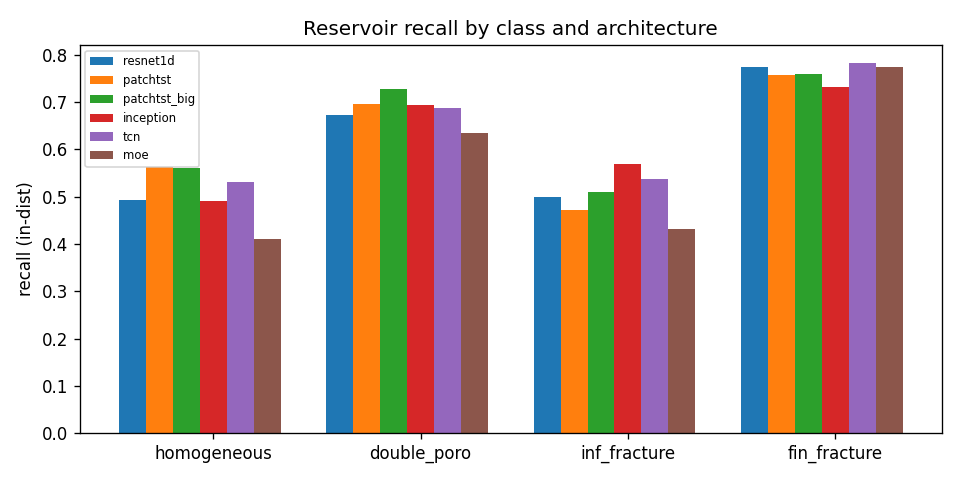
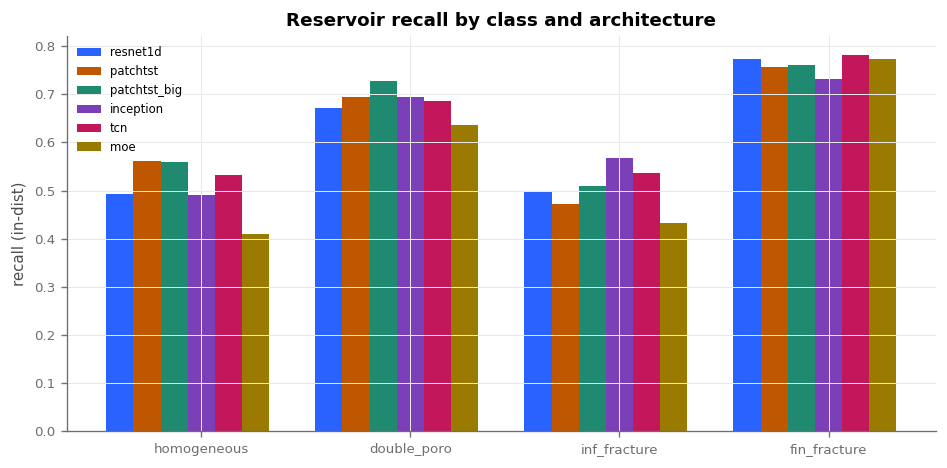
site: dark mode and data-color system for the style guide
Auto dark mode (prefers-color-scheme + masthead toggle persisted in
localStorage) with brightened accents for contrast; 8-color categorical
cycle for multi-series charts; highlight+context pattern for many-column
histograms (never one color per category); matching matplotlib style file
so report figures come out on-brand in one line.

diff --git a/docs/guia_estilos.html b/docs/guia_estilos.html
@@ -13,7 +13,9 @@
 
 <div class="masthead full">
   <span><a href="index.html">Deep PTA</a></span>
-  <span>Guía de estilos editoriales</span>
+  <span>Guía de estilos editoriales
+    <button class="theme-toggle" id="theme-toggle" title="Cambiar tema">AUTO</button>
+  </span>
 </div>
 
 <h1 class="title">Guía de estilos para los informes de resultados</h1>
@@ -61,6 +63,99 @@ naranja, nada lo es.</p>
     <div class="role">Métrica héroe, mejor valor, hallazgos. Con moderación.</div>
   </div>
 </div>
+
+<h2>Modo oscuro</h2>
+<p>El tema sigue la preferencia del sistema (<code>prefers-color-scheme</code>) y se
+puede forzar con el botón del masthead (persiste en <code>localStorage</code>). En
+oscuro, los acentos suben de luminancia (azul <code>#7DA2FF</code>, naranja
+<code>#FF9248</code>) para mantener el contraste sobre papel <code>#14161A</code>, y
+las figuras raster de matplotlib (fondo blanco) se atenúan con un filtro suave. Todos
+los componentes usan variables por rol, así que ningún informe necesita CSS propio
+para soportar ambos modos.</p>
+
+<h2>Color de datos (gráficas)</h2>
+<p>Los dos acentos editoriales no bastan para una gráfica con varias curvas. Para eso
+existe el <strong>ciclo categórico de 8</strong> — empieza por los acentos y sigue con
+tonos separados en matiz, legibles en ambos modos:</p>
+
+<div class="swatches">
+  <div class="swatch"><div class="chip" style="background:var(--data-1)"></div>
+    <div class="name">data-1</div><div class="role">azul (acento)</div></div>
+  <div class="swatch"><div class="chip" style="background:var(--data-2)"></div>
+    <div class="name">data-2</div><div class="role">naranja (héroe)</div></div>
+  <div class="swatch"><div class="chip" style="background:var(--data-3)"></div>
+    <div class="name">data-3</div><div class="role">verde azulado</div></div>
+  <div class="swatch"><div class="chip" style="background:var(--data-4)"></div>
+    <div class="name">data-4</div><div class="role">violeta</div></div>
+  <div class="swatch"><div class="chip" style="background:var(--data-5)"></div>
+    <div class="name">data-5</div><div class="role">magenta</div></div>
+  <div class="swatch"><div class="chip" style="background:var(--data-6)"></div>
+    <div class="name">data-6</div><div class="role">ocre</div></div>
+  <div class="swatch"><div class="chip" style="background:var(--data-7)"></div>
+    <div class="name">data-7</div><div class="role">cian profundo</div></div>
+  <div class="swatch"><div class="chip" style="background:var(--data-8)"></div>
+    <div class="name">data-8</div><div class="role">gris ("resto")</div></div>
+</div>
+
+<h3>Muchas series: el ciclo en orden</h3>
+<p>Hasta 8 series (las 6 arquitecturas del banco caben), siempre en el mismo orden —
+así "azul = primera serie" se vuelve convención entre figuras.</p>
+
+<div class="flow">
+<svg viewBox="0 0 640 150" width="100%" role="img" aria-label="Demo de líneas multi-serie">
+  <polyline points="20,110 120,95 220,80 320,60 420,52 620,40" fill="none" stroke="var(--data-1)" stroke-width="2.5"/>
+  <polyline points="20,120 120,108 220,99 320,84 420,72 620,62" fill="none" stroke="var(--data-2)" stroke-width="2.5"/>
+  <polyline points="20,125 120,115 220,108 320,95 420,88 620,78" fill="none" stroke="var(--data-3)" stroke-width="2.5"/>
+  <polyline points="20,128 120,122 220,114 320,108 420,99 620,92" fill="none" stroke="var(--data-4)" stroke-width="2.5"/>
+  <polyline points="20,132 120,127 220,123 320,116 420,111 620,104" fill="none" stroke="var(--data-5)" stroke-width="2.5"/>
+  <polyline points="20,136 120,132 220,129 320,125 420,121 620,116" fill="none" stroke="var(--data-6)" stroke-width="2.5"/>
+  <line x1="20" y1="142" x2="620" y2="142" stroke="var(--rule)" stroke-width="1"/>
+</svg>
+</div>
+
+<h3>Muchas columnas: highlight + context</h3>
+<p><strong>Más de 8 categorías nunca reciben un color por categoría.</strong> Un
+histograma con muchas columnas usa el patrón <em>highlight&nbsp;+&nbsp;context</em>:
+todo en gris apagado y SOLO la barra (o las 2-3 barras) de las que habla el texto en
+color. Si las categorías tienen orden natural, alternativa: escala secuencial
+mono-matiz azul.</p>
+
+<div class="flow">
+<svg viewBox="0 0 640 150" width="100%" role="img" aria-label="Histograma highlight + context">
+  <g>
+    <rect x="22"  y="96" width="26" height="46" fill="var(--data-muted)"/>
+    <rect x="56"  y="78" width="26" height="64" fill="var(--data-muted)"/>
+    <rect x="90"  y="60" width="26" height="82" fill="var(--data-muted)"/>
+    <rect x="124" y="46" width="26" height="96" fill="var(--data-muted)"/>
+    <rect x="158" y="30" width="26" height="112" fill="var(--data-2)"/>
+    <rect x="192" y="42" width="26" height="100" fill="var(--data-muted)"/>
+    <rect x="226" y="56" width="26" height="86" fill="var(--data-muted)"/>
+    <rect x="260" y="64" width="26" height="78" fill="var(--data-muted)"/>
+    <rect x="294" y="74" width="26" height="68" fill="var(--data-muted)"/>
+    <rect x="328" y="82" width="26" height="60" fill="var(--data-muted)"/>
+    <rect x="362" y="88" width="26" height="54" fill="var(--data-muted)"/>
+    <rect x="396" y="95" width="26" height="47" fill="var(--data-muted)"/>
+    <rect x="430" y="102" width="26" height="40" fill="var(--data-muted)"/>
+    <rect x="464" y="108" width="26" height="34" fill="var(--data-muted)"/>
+    <rect x="498" y="113" width="26" height="29" fill="var(--data-muted)"/>
+    <rect x="532" y="118" width="26" height="24" fill="var(--data-muted)"/>
+    <rect x="566" y="124" width="26" height="18" fill="var(--data-muted)"/>
+    <line x1="20" y1="142" x2="620" y2="142" stroke="var(--rule)" stroke-width="1"/>
+    <text x="171" y="22" text-anchor="middle" fill="var(--data-2)"
+          font-family="Source Sans 3, sans-serif" font-size="11" font-weight="700">el dato</text>
+  </g>
+</svg>
+</div>
+<figcaption style="max-width:44rem;margin:-1.4rem auto 2rem;padding:0 1.25rem;">
+<b>Patrón highlight + context.</b> Diecisiete columnas, un mensaje: el contexto en
+gris apagado (<code>--data-muted</code>), el dato en naranja. El lector ve la historia
+sin descifrar una leyenda de 17 colores.</figcaption>
+
+<h3>Figuras matplotlib on-brand</h3>
+<p>Las figuras de los scripts usan <code>docs/assets/deep_pta.mplstyle</code>, que fija
+el mismo ciclo de 8 colores, la sans y la rejilla fina:</p>
+<pre><code>import matplotlib.pyplot as plt
+plt.style.use("docs/assets/deep_pta.mplstyle")</code></pre>
 
 <h2>Tipografía</h2>
 <p>La prosa va en <strong>Source Serif 4</strong> (fallback Georgia) a 17px con
@@ -191,12 +286,39 @@ convención que la bitácora.</p>
 
 </article>
 
+<script>
+  // Toggle de tema: AUTO -> DARK -> LIGHT -> AUTO (persistido en localStorage)
+  (function () {
+    const root = document.documentElement;
+    const btn = document.getElementById("theme-toggle");
+    const saved = localStorage.getItem("deep-pta-theme");
+    if (saved) { root.dataset.theme = saved; btn.textContent = saved.toUpperCase(); }
+    btn.addEventListener("click", () => {
+      const next = { "": "dark", "dark": "light", "light": "" }[root.dataset.theme || ""];
+      if (next) { root.dataset.theme = next; localStorage.setItem("deep-pta-theme", next); }
+      else { delete root.dataset.theme; localStorage.removeItem("deep-pta-theme"); }
+      btn.textContent = (next || "auto").toUpperCase();
+      location.reload(); // re-render mermaid con el tema correcto
+    });
+  })();
+</script>
 <script type="module">
   import mermaid from "https://cdn.jsdelivr.net/npm/mermaid@11/dist/mermaid.esm.min.mjs";
+  const forced = document.documentElement.dataset.theme;
+  const dark = forced === "dark" ||
+    (!forced && window.matchMedia("(prefers-color-scheme: dark)").matches);
   mermaid.initialize({
     startOnLoad: true,
     theme: "base",
-    themeVariables: {
+    themeVariables: dark ? {
+      fontFamily: "Source Sans 3, Helvetica, Arial, sans-serif",
+      fontSize: "14px",
+      primaryColor: "#1d2026",
+      primaryTextColor: "#e8e6e3",
+      primaryBorderColor: "#8d8a85",
+      lineColor: "#8d8a85",
+      tertiaryColor: "#14161a"
+    } : {
       fontFamily: "Source Sans 3, Helvetica, Arial, sans-serif",
       fontSize: "14px",
       primaryColor: "#ffffff",

diff --git a/docs/assets/style.css b/docs/assets/style.css
@@ -21,6 +21,18 @@
   --hero:        #bf5700; /* métrica héroe, mejor valor, hallazgos — escaso */
   --hero-tint:   #fbf2ea; /* fondo del bloque de hallazgo, fila ganadora */
 
+  /* Ciclo categórico para series de datos (gráficas con varias curvas).
+     Orden fijo: las dos primeras son los acentos editoriales; ≤8 series. */
+  --data-1: #2962ff;  /* azul (acento) */
+  --data-2: #bf5700;  /* naranja (héroe) */
+  --data-3: #1f8a70;  /* verde azulado */
+  --data-4: #7b3fb8;  /* violeta */
+  --data-5: #c2185b;  /* magenta */
+  --data-6: #9a7b00;  /* ocre */
+  --data-7: #00838f;  /* cian profundo */
+  --data-8: #6e6e6e;  /* gris: la categoría "resto/otros" */
+  --data-muted: #c9ced6; /* contexto apagado para highlight+context */
+
   /* Tipografía */
   --serif: "Source Serif 4", Georgia, "Times New Roman", serif;
   --sans:  "Source Sans 3", -apple-system, "Segoe UI", Helvetica, Arial, sans-serif;
@@ -28,7 +40,85 @@
 
   --measure: 44rem;       /* ancho de lectura ~704px */
   --measure-wide: 64rem;  /* figuras y tablas anchas */
+
+  color-scheme: light dark;
 }
+
+/* ---------- modo oscuro ----------
+   Automático por preferencia del sistema; forzable con
+   <html data-theme="dark"> o data-theme="light" (toggle del masthead). */
+@media (prefers-color-scheme: dark) {
+  :root:not([data-theme="light"]) {
+    --ink:        #e8e6e3;
+    --ink-soft:   #b8b5b0;
+    --ink-faint:  #8d8a85;
+    --paper:      #14161a;
+    --paper-alt:  #1d2026;
+    --rule:       #2c3039;
+
+    --accent:      #7da2ff;
+    --accent-dark: #a7c0ff;
+    --accent-tint: #1b2334;
+
+    --hero:        #ff9248;
+    --hero-tint:   #2a2018;
+
+    --data-1: #7da2ff;
+    --data-2: #ff9248;
+    --data-3: #45c4a4;
+    --data-4: #b388ff;
+    --data-5: #ff6f9d;
+    --data-6: #d9b830;
+    --data-7: #4dd0e1;
+    --data-8: #9a9a9a;
+    --data-muted: #3a3f48;
+  }
+}
+:root[data-theme="dark"] {
+  --ink:        #e8e6e3;
+  --ink-soft:   #b8b5b0;
+  --ink-faint:  #8d8a85;
+  --paper:      #14161a;
+  --paper-alt:  #1d2026;
+  --rule:       #2c3039;
+
+  --accent:      #7da2ff;
+  --accent-dark: #a7c0ff;
+  --accent-tint: #1b2334;
+
+  --hero:        #ff9248;
+  --hero-tint:   #2a2018;
+
+  --data-1: #7da2ff;
+  --data-2: #ff9248;
+  --data-3: #45c4a4;
+  --data-4: #b388ff;
+  --data-5: #ff6f9d;
+  --data-6: #d9b830;
+  --data-7: #4dd0e1;
+  --data-8: #9a9a9a;
+  --data-muted: #3a3f48;
+}
+
+/* Las figuras raster (matplotlib, fondo blanco) se atenúan en oscuro */
+@media (prefers-color-scheme: dark) {
+  :root:not([data-theme="light"]) figure img { filter: brightness(0.88) contrast(1.02); }
+}
+:root[data-theme="dark"] figure img { filter: brightness(0.88) contrast(1.02); }
+
+/* Toggle de tema (masthead) */
+.theme-toggle {
+  font-family: var(--sans);
+  font-size: 0.72rem;
+  letter-spacing: 0.1em;
+  background: none;
+  border: 1px solid var(--rule);
+  color: var(--ink-soft);
+  border-radius: 3px;
+  padding: 0.15rem 0.6rem;
+  cursor: pointer;
+}
+.theme-toggle:hover { border-color: var(--accent); color: var(--accent); }
 
 /* ---------- base ---------- */
 * { box-sizing: border-box; }